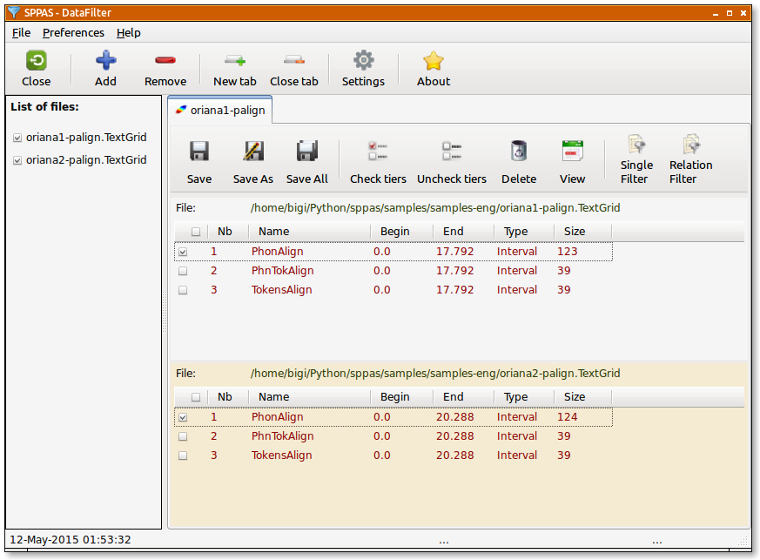
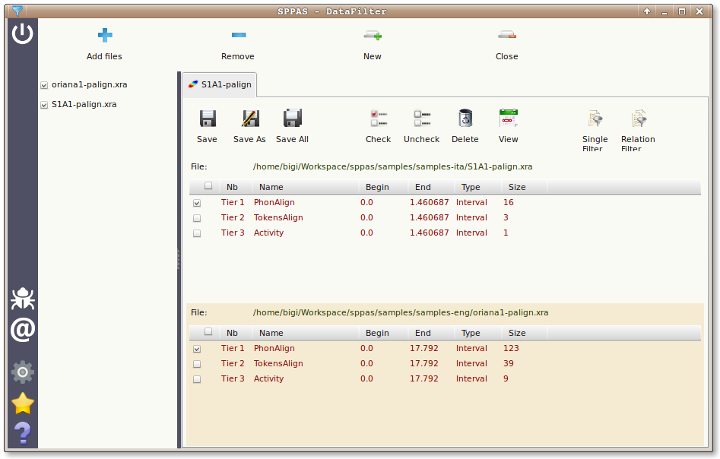
DataFilter: toolbar changed.

Changed region(s): [[0.0, 0.0, 1.0, 1.0]]

diff --git a/sppas/src/wxgui/clients/datafilterclient.py b/sppas/src/wxgui/clients/datafilterclient.py
@@ -52,16 +52,11 @@ from wxgui.sp_icons import TIER_DELETE
 from wxgui.sp_icons import TIER_PREVIEW
 from wxgui.sp_icons import FILTER_CHECK
 from wxgui.sp_icons import FILTER_UNCHECK
-
 from wxgui.sp_icons import FILTER_SINGLE
 from wxgui.sp_icons import FILTER_RELATION
-
 from wxgui.sp_icons import SAVE_FILE
 from wxgui.sp_icons import SAVE_ALL_FILE
 from wxgui.sp_icons import SAVE_AS_FILE
-
-from wxgui.sp_consts import TB_ICONSIZE
-from wxgui.sp_consts import TB_FONTSIZE
 
 from wxgui.ui.CustomEvents  import FileWanderEvent, spEVT_FILE_WANDER
 from wxgui.ui.CustomEvents  import spEVT_PANEL_SELECTED
@@ -77,6 +72,7 @@ from wxgui.dialogs.msgdialogs import ShowInformation
 from wxgui.dialogs.msgdialogs import ShowYesNoQuestion
 
 from wxgui.panels.trslist        import TrsList
+from wxgui.panels.mainbuttons    import MainToolbarPanel
 from wxgui.views.singlefilter    import SingleFilterDialog
 from wxgui.views.relationfilter  import RelationFilterDialog
 from wxgui.process.filterprocess import FilterProcess
@@ -154,19 +150,21 @@ class DataFilter( scrolled.ScrolledPanel ):
         self._selection  = None # the index of the selected trsdata panel
 
         self._prefsIO = self._check_prefs(prefsIO)
+        self.SetBackgroundColour(prefsIO.GetValue('M_BG_COLOUR'))
 
         # imitate the behavior of a toolbar, with buttons
         self.toolbar = self._create_toolbar()
-        sizer.Add(self.toolbar, proportion=0, flag=wx.EXPAND|wx.ALL, border=1 )
+        sizer.Add(self.toolbar, proportion=0, flag=wx.EXPAND|wx.TOP|wx.LEFT|wx.RIGHT, border=4)
 
         # sizer
         self._trssizer = wx.BoxSizer( wx.VERTICAL )
-        sizer.Add(self._trssizer, proportion=1, flag=wx.EXPAND|wx.ALL, border=1 )
+        sizer.Add(self._trssizer, proportion=1, flag=wx.EXPAND|wx.LEFT|wx.RIGHT, border=4)
 
         # Bind events
         self.Bind(spEVT_PANEL_SELECTED, self.OnPanelSelection)
         self.Bind(spEVT_FILE_WANDER,    self.OnFileWander)
         self.Bind(spEVT_SETTINGS,       self.OnSettings)
+        self.Bind(wx.EVT_BUTTON,        self.ProcessEvent)
 
         self.SetSizer(sizer)
         self.SetAutoLayout( True )
@@ -209,57 +207,23 @@ class DataFilter( scrolled.ScrolledPanel ):
         Creates a toolbar panel.
 
         """
-        # Define the size of the icons and buttons
-        iconSize = (TB_ICONSIZE, TB_ICONSIZE)
+        toolbar = MainToolbarPanel(self, self._prefsIO)
+        toolbar.AddButton( wx.ID_SAVE,    SAVE_FILE,    'Save', tooltip="Save the selected file.")
+        toolbar.AddButton( SAVE_AS_ID,    SAVE_AS_FILE, 'Save As', tooltip="Save as... the selected file.")
+        toolbar.AddButton( SAVE_ALL_ID,   SAVE_ALL_FILE, 'Save All', tooltip="Save all files of the page.")
+        toolbar.AddSpacer()
 
-        toolbar = wx.ToolBar( self, -1, style=wx.TB_TEXT )
-        # Set the size of the buttons
-        toolbar.SetToolBitmapSize(iconSize)
-        toolbar.SetFont( self._prefsIO.GetValue('M_FONT') )
+        toolbar.AddButton( FILTER_CHECK_ID, FILTER_CHECK, 'Check', tooltip="Choose the tier(s) to check.")
+        toolbar.AddButton( FILTER_UNCHECK_ID, FILTER_UNCHECK, 'Uncheck', tooltip="Uncheck all the tier(s) of the page.")
+        toolbar.AddButton( wx.ID_DELETE, TIER_DELETE, 'Delete', tooltip="Delete all the checked tier(s) of the page.")
+        toolbar.AddButton( PREVIEW_ID, TIER_PREVIEW, 'View', tooltip="Preview one checked tier of the selected file.")
+        toolbar.AddSpacer()
 
-        toolbar.AddLabelTool(wx.ID_SAVE,  'Save',
-                             spBitmap(SAVE_FILE,TB_ICONSIZE,theme=self._prefsIO.GetValue('M_ICON_THEME')),
-                             shortHelp="Save the selected file")
-        toolbar.AddLabelTool(SAVE_AS_ID,  'Save As',
-                             spBitmap(SAVE_AS_FILE,TB_ICONSIZE,theme=self._prefsIO.GetValue('M_ICON_THEME')),
-                             shortHelp="Save as... the selected file")
-        toolbar.AddLabelTool(SAVE_ALL_ID, 'Save All',
-                             spBitmap(SAVE_ALL_FILE,TB_ICONSIZE,theme=self._prefsIO.GetValue('M_ICON_THEME')),
-                             shortHelp="Save all the files")
-
-        toolbar.AddSeparator()
-
-        toolbar.AddLabelTool(FILTER_CHECK_ID,'Check tiers',
-                             spBitmap(FILTER_CHECK,TB_ICONSIZE,theme=self._prefsIO.GetValue('M_ICON_THEME')),
-                             shortHelp="Choose the tier(s) to check")
-        toolbar.AddLabelTool(FILTER_UNCHECK_ID, 'Uncheck tiers',
-                             spBitmap(FILTER_UNCHECK,TB_ICONSIZE,theme=self._prefsIO.GetValue('M_ICON_THEME')),
-                             shortHelp="Uncheck all")
-        toolbar.AddLabelTool(wx.ID_DELETE, 'Delete',
-                             spBitmap(TIER_DELETE,TB_ICONSIZE,theme=self._prefsIO.GetValue('M_ICON_THEME')),
-                             shortHelp="Delete all the checked tier(s)")
-        toolbar.AddLabelTool(PREVIEW_ID,   'View',
-                             spBitmap(TIER_PREVIEW,TB_ICONSIZE,theme=self._prefsIO.GetValue('M_ICON_THEME')),
-                             shortHelp="Preview one checked tier of the selected file")
-
-        toolbar.AddSeparator()
-
-        toolbar.AddLabelTool(FILTER_SEL_ID, 'Single\nFilter',
-                             spBitmap(FILTER_SINGLE,TB_ICONSIZE,theme=self._prefsIO.GetValue('M_ICON_THEME')),
-                             shortHelp="Filter checked tier(s) depending on its annotations.")
-        toolbar.AddLabelTool(FILTER_REL_ID, 'Relation\nFilter',
-                             spBitmap(FILTER_RELATION,TB_ICONSIZE,theme=self._prefsIO.GetValue('M_ICON_THEME')),
-                             shortHelp="Filter checked tier(s) depending on time-relations of its annotation with annotations of another tier.")
-
-        toolbar.Realize()
-
-        # events
-        eventslist = [ wx.ID_SAVE, SAVE_AS_ID, SAVE_ALL_ID, wx.ID_DELETE, PREVIEW_ID, FILTER_CHECK_ID, FILTER_UNCHECK_ID, FILTER_SEL_ID, FILTER_REL_ID ]
-        for event in eventslist:
-            wx.EVT_TOOL(self, event, self.ProcessEvent)
+        toolbar.AddButton( FILTER_SEL_ID, FILTER_SINGLE, 'Single\nFilter', tooltip="Filter checked tier(s) depending on its annotations.")
+        toolbar.AddButton( FILTER_REL_ID, FILTER_RELATION, 'Relation\nFilter', tooltip="Filter checked tier(s) depending on time-relations of its annotation with annotations of another tier.")
+        toolbar.AddSpacer()
 
         return toolbar
-
 
     # ------------------------------------------------------------------------
     # Callbacks to any kind of event
@@ -603,9 +567,6 @@ class DataFilter( scrolled.ScrolledPanel ):
 
         """
         wx.Window.SetFont( self,font )
-        self.toolbar.SetFont( font )
-
-        # Apply to all panels
         for i in range(self._filetrs.GetSize()):
             p = self._filetrs.GetObject(i)
             p.SetFont( font )
@@ -618,9 +579,6 @@ class DataFilter( scrolled.ScrolledPanel ):
 
         """
         wx.Window.SetBackgroundColour( self,color )
-        self.toolbar.SetBackgroundColour( color )
-
-        # Apply as background on all panels
         for i in range(self._filetrs.GetSize()):
             p = self._filetrs.GetObject(i)
             p.SetBackgroundColour(color)
@@ -633,9 +591,6 @@ class DataFilter( scrolled.ScrolledPanel ):
 
         """
         wx.Window.SetForegroundColour( self,color )
-        self.toolbar.SetForegroundColour( color )
-
-        # Apply as foreground on all panels
         for i in range(self._filetrs.GetSize()):
             p = self._filetrs.GetObject(i)
             p.SetForegroundColour(color)

diff --git a/sppas/src/wxgui/clients/dataroamerclient.py b/sppas/src/wxgui/clients/dataroamerclient.py
@@ -201,11 +201,11 @@ class DataRoamer( scrolled.ScrolledPanel ):
 
         # imitate the behavior of a toolbar, with buttons
         toolbar = self._create_toolbar()
-        sizer.Add(toolbar, proportion=0, flag=wx.ALL|wx.EXPAND, border=1 )
+        sizer.Add(toolbar, proportion=0, flag=wx.EXPAND|wx.LEFT|wx.RIGHT, border=4)
 
         # sizer
         self._trssizer = wx.BoxSizer( wx.VERTICAL )
-        sizer.Add(self._trssizer, proportion=1, flag=wx.ALL|wx.EXPAND, border=1 )
+        sizer.Add(self._trssizer, proportion=1, flag=wx.EXPAND|wx.LEFT|wx.RIGHT, border=4)
 
         # Bind events
         self.Bind(spEVT_PANEL_SELECTED, self.OnPanelSelection)
@@ -259,10 +259,8 @@ class DataRoamer( scrolled.ScrolledPanel ):
         toolbar.AddButton( DUPLICATE_ID, TIER_DUPLICATE,"Duplicate", tooltip="Duplicate the selected tier.")
         toolbar.AddButton( wx.ID_UP,     TIER_MOVE_UP,  "Move Up",   tooltip="Move up the selected tier.")
         toolbar.AddButton( wx.ID_DOWN,   TIER_MOVE_DOWN,"Move Down", tooltip="Move down the selected tier.")
-
         toolbar.AddButton( TIER_RADIUS_ID, TIER_RADIUS, "Radius", tooltip="Fix the vagueness of each boundary. Efficient only while saving file in .xra format.")
         toolbar.AddButton( PREVIEW_ID,     TIER_PREVIEW, "View",   tooltip="Preview of the selected tier.")
-
         return toolbar
 
     # ------------------------------------------------------------------------

diff --git a/Packager/doc/05_analyses/53_audioroamer.md b/Packager/doc/05_analyses/53_audioroamer.md
@@ -19,7 +19,7 @@ bits per sample. 16 is the most frequent one: this allow values to range from
 Support for multichannel audio depends on file format and relies on 
 interweaving or synchronization of streams.
 
-![AudioRoamer: play and manage audio files](./etc/screenshots/SndRoamer.png)
+![AudioRoamer: play and manage audio files](./etc/screenshots/AudioRoamer.png)
 
 
 #### Want more?
@@ -29,7 +29,7 @@ For a large file, it can take a while to estimate such information...
 For example, an mono-audio file of 243 seconds (21.5Mb) is loaded in 35 seconds.
 **So be patient! It's worth it!**
 
-![AudioRoamer if you want more](./etc/screenshots/SndRoamer-more.png)
+![AudioRoamer if you want more](./etc/screenshots/AudioRoamer-more.png)
 
 At the bottom of the window, it is possible to click on buttons to:
 
@@ -87,7 +87,7 @@ Between parenthesis, the volume in dB is estimated as:
 10.log10(rms/ref), where ref is a reference factor (energy quantity) 
 ref = 1 ≡ 0 dB (power).
 
-Illustration:
+*Illustration:*
 The level of −3 dB is equivalent to 50% (factor = 0.5) and the level of
 −6 dB is equivalent to 25% (factor = 1/4 = 0.25) of the initial power.
 For example, a RMS value of 350 gives a pover value equal to 25.45 dB compared
@@ -96,5 +96,5 @@ to a RMS value of 700 that gives a power value of 28.45 dB.
 ##### Automatic detection of silences:
 
 Finally, the result of an automatic detection of silences is given. Of course,
-this information is given for information only, and is estimated with default
-parameters, which should be adapted. 
+this information is given for information only. It is estimated with default
+parameters which should be adapted. 

diff --git a/Packager/doc/05_analyses/54_ipuscriber.md b/Packager/doc/05_analyses/54_ipuscriber.md
@@ -2,7 +2,7 @@
 
 `IPUscriber` is useful to perform manual orthographic transcription.
 
-![IPUscriber: for manual orthographic transcription](./etc/screenshots/IPUscribe.png)
+![IPUscriber: for manual orthographic transcription](./etc/screenshots/IPUscriber.png)
 
 To transcribe an IPU, click on the IPU box, play sound and write 
 the corresponding text: refer to the transcription convention of 
@@ -18,7 +18,6 @@ list (from left to right):
 
 The following keyboard shortcuts can also be used:
 
-- to play: TAB
+- to play:  TAB
 - to pause: ESC
-- to stop: F1
-
+- to stop:  F1

diff --git a/Packager/doc/05_analyses/51_intro.md b/Packager/doc/05_analyses/51_intro.md
@@ -20,8 +20,9 @@ Six tools are available:
 5. `DataFilter` allows to select annotations: fix a set of filters to create new tiers with only the annotations you are interested in!
 6. `Statistics` estimates the number of occurrences, the duration, etc. of the annotations, and allows to save in CSV (for Excel, OpenOffice, R, MatLab,...).
 
-All of such tools share the same style of frame:
+All of such tools share the same frame with:
 
-- a menu, a toolbar,
+- a menu (left), 
+- a toolbar (top),
 - a list of files,
 - a notebook to open files in tabs.

diff --git a/Packager/doc/05_analyses/55_vizualizer.md b/Packager/doc/05_analyses/55_vizualizer.md
@@ -1,9 +1,9 @@
 ## Vizualizer
 
-This component is still under-development, some "troubles/crashes" can occur 
-while using it... however the data will never been corrupted!
-
 `Vizualizer` displays speech files and annotated files, and is very useful 
 to take a nice screenshot.
 
 ![Vizualizer: displays audio files and annotated files](./etc/screenshots/SppasEdit.png)
+
+This tool is still under-development, some "troubles/crashes" can occur 
+while using it... however the data will never been corrupted!
